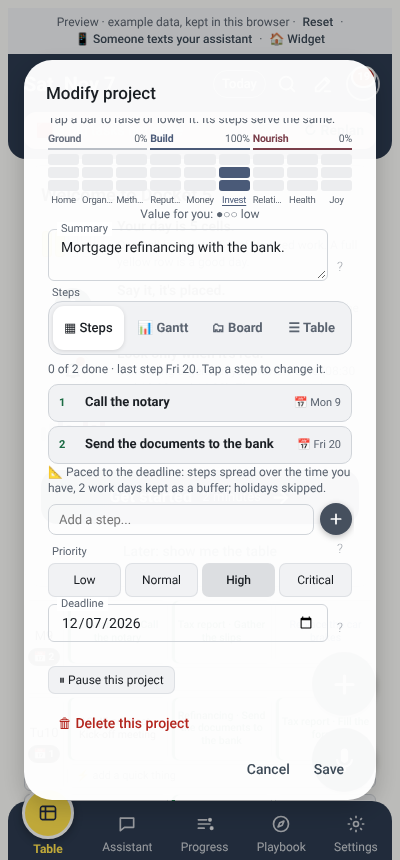
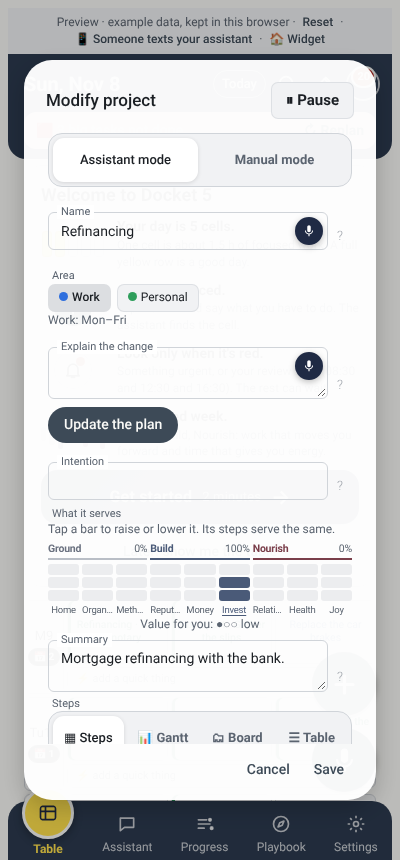
Preview: Pause at the top of the project view; pausing clears every planned cell of the project (missed ones too)
Claude-Session: https://claude.ai/code/session_016YHbQ4tSLyRHgwgfX2aic5

diff --git a/docs/preview/docket5-gbn-preview.html b/docs/preview/docket5-gbn-preview.html
@@ -282,6 +282,7 @@ button.rrow { background: none; border: 0; border-bottom: 1px solid var(--outlin
 .jl { font-size: 9.5px; color: var(--muted); white-space: nowrap; overflow: hidden; text-overflow: ellipsis; max-width: 100%; }
 .jbtn[aria-pressed=true] .jl, .jbtn[aria-pressed=true] .jn { color: inherit; font-weight: 700; }
 .jhead .jrow:nth-child(2) .jbtn { min-width: 56px; }
+.pausebtn { font-size: 15px !important; padding: 7px 14px !important; font-weight: 600; }
 .jctx { font-size: 12px; color: var(--muted); border-left: 3px solid var(--outline); padding-left: 7px; }
 .jdig { font-size: 13px; margin: 2px 0 0 0; padding-left: 18px; } .jdig li { margin: 1px 0; } .jdigp { font-size: 13px; }
 .jpanel { display: flex; flex-direction: column; gap: 5px; background: var(--variant); border-radius: 10px; padding: 7px 8px; }
@@ -3240,7 +3241,7 @@ function projectDialog(existing, from = null, opts = {}) {
     : ft ? [{ title: `Prepare: what “${ft.title}” needs`, done: false }, { title: ft.title, done: false }] : [];
   const levels = p && p.serve ? { ...p.serve } : holder ? serveOf(holder, null) : ft ? serveOf(ft, null) : {}; let proposedLv = p || ft ? { ...levels } : null;
   const fname = ft ? uniqueProjectName(S, ft.title) : "", fexplain = ft ? [ft.title + ".", ft.desc, intentionOf(ft) && "Intention: " + intentionOf(ft)].filter(Boolean).join(" ") : "";
-  dialog(`<h3>${ft ? "Make it a project" : idea ? "Start the idea" : p ? "Modify project" : opts.start ? "New project · from " + dayName(opts.start) : "New project"}</h3><div class="body">
+  dialog(`<h3><span class="grow">${ft ? "Make it a project" : idea ? "Start the idea" : p ? "Modify project" : opts.start ? "New project · from " + dayName(opts.start) : "New project"}</span>${p && !idea ? `<button type="button" class="tag pausebtn" data-a="pause">⏸ Pause</button>` : ""}</h3><div class="body">
     ${ft ? `<div class="small">“${esc(ft.title)}” becomes a project with the same intention. Check or change anything, then Save. Its first step keeps the task's cell${fday ? ` (${dayName(fday)})` : ""}.</div>` : ""}
     <div class="seg" role="group" aria-label="How"><button type="button" data-mode="assistant" aria-pressed="true">Assistant mode</button><button type="button" data-mode="manual" aria-pressed="false">Manual mode</button></div>
     ${!p && !ft && (S.templates || []).length ? `<div class="glabel">Start from a template (optional)</div><div class="wrap">${S.templates.map(t => `<button type="button" class="tag" data-a="tpl-use" data-tn="${esc(t.name)}" aria-pressed="false">📋 ${esc(t.name)} · ${t.steps.length} steps</button>`).join("")}</div>` : ""}
@@ -3263,7 +3264,6 @@ function projectDialog(existing, from = null, opts = {}) {
       ${dateField("p-deadline", "Deadline", p ? p.deadline : ft ? ft.deadline || "" : "", "The final date. Its steps are planned to finish at least one day before.")}
     </div>
     <div class="err" id="err"></div>
-    ${p && !idea ? `<button type="button" class="tag" data-a="pause" style="align-self:flex-start">⏸ Pause this project</button>` : ""}
     ${idea ? `<button class="text danger" data-a="delete-idea" style="align-self:flex-start">Delete this idea</button>` : p ? `<button class="text danger" data-a="delete-project" style="align-self:flex-start">🗑 Delete this project</button>` : ""}</div>
     <div class="foot"><button class="text" data-a="close">Cancel</button><button class="text" data-a="save">Save</button></div>`, host => {
     const showMode = () => {
@@ -3287,7 +3287,7 @@ function projectDialog(existing, from = null, opts = {}) {
         // From an empty cell: the project starts that day.
         if (opts.start) { const s0 = steps.find(x => !x.done); if (s0 && !s0.date) s0.date = opts.start; }
         const out = saveProjectWithSteps({ name, priority: prio, why, area: parea, deadline: $("#p-deadline").value || null, notes: $("#p-notes").value.trim(), values: [...serves], blocks: p ? (p.blocks || []) : [] }, p ? p.name : null, steps);
-        const h = projectTask(S, name), open = h ? h.steps.filter(x => !x.done && (!x.outcome || x.outcome === "PARKED")) : [], already = parkedCount(findProject(S, name)) > 0;
+        const open = S.tasks.filter(t => t.project === name).flatMap(t => t.steps.filter(x => !x.done && (!x.outcome || x.outcome === "PARKED" || x.outcome === "MISSED"))), already = parkedCount(findProject(S, name)) > 0;
         const limit = $("#p-deadline").value || null;
         return { days: open.map(x => ({ date: x.date, late: !x.date || (limit && x.date > limit) })), moved: out, pace: lastPace };
       } finally { S = real; }
@@ -5151,7 +5151,7 @@ Start with the most useful question (e.g. why a task keeps moving, what filled t
     });
   });
 }
-function parkedCount(p) { const h = projectTask(S, p.name); return h ? h.steps.filter(x => x.outcome === "PARKED").length : 0; }
+function parkedCount(p) { return S.tasks.filter(t => t.project === p.name).reduce((n, t) => n + t.steps.filter(x => x.outcome === "PARKED").length, 0); }
 /** Park: the project's open steps leave the table and wait with the ideas; Resume puts them back after tomorrow. */
 const PAUSE_WHY = ["⏳ Waiting on someone", "🔽 Not a priority now", "🕒 No time these weeks", "🚧 Blocked", "Other"];
 /** ⏸ Pause: why, and when it comes back. Save frees its cells at once (rules, no AI); nothing is lost. */
@@ -5166,7 +5166,7 @@ function pauseDialog(name) {
     <div class="glabel" style="margin:0">Bring it back</div>
     <div class="picks">${tag(!st.until, `data-pu=""`, "When I say")}${tag(!!st.until, `data-pu="pick"`, st.until ? "📅 " + esc(dayName(st.until)) : "📅 On a day")}</div>
     <div id="pz-day" hidden><input type="date" id="pz-date" min="${addDays(TODAY, 1)}"></div>
-    <div class="card small"><b>When you save:</b> its ${open.length} open step${open.length === 1 ? "" : "s"} leave your table${soon ? ` (${soon} cell${soon > 1 ? "s" : ""} free this week)` : ""}. Nothing is deleted: they wait, in order, with the project.${st.until ? ` On ${esc(dayName(st.until))} they come back by themselves.` : ""}</div></div>
+    <div class="card small"><b>When you save:</b> all its ${open.length} planned step${open.length === 1 ? "" : "s"} leave your table completely${soon ? ` (${soon} cell${soon > 1 ? "s" : ""} free this week)` : ""}, red ones included. Nothing is deleted: they wait, in order, with the project.${st.until ? ` On ${esc(dayName(st.until))} they come back by themselves.` : ""}</div></div>
     <div class="foot"><button class="text" data-z="x">Cancel</button><button class="btn" data-z="ok">⏸ Pause</button></div>`, host => {
     host.querySelector("#pz-note").addEventListener("input", e => { st.note = e.target.value; });
     host.querySelectorAll("[data-pw]").forEach(b => b.addEventListener("click", () => { st.why = b.dataset.pw; draw(); }));
@@ -5198,13 +5198,14 @@ function confirmResume(name) {
 /** A pause with a date ends by itself that day (rule, no AI). */
 function autoResume() { (S.projects || []).forEach(p => { if (p.pause && p.pause.until && p.pause.until <= TODAY && parkedCount(p)) { resumeProject(p.name); S.notice = { text: `▶ ${p.name} is back today, as planned when you paused it.`, warn: false }; delete p.pause; } }); }
 function parkProject(name) {
-  const h = projectTask(S, name); if (!h) return;
-  h.steps.forEach(x => { if (!x.done && !x.outcome) Object.assign(x, { outcome: "PARKED", date: null, slot: null, pinned: false }); });
+  const tasks = S.tasks.filter(t => t.project === name); if (!tasks.length) return;
+  // Every cell of the project leaves the table: planned, scheduled and missed (red) ones. Done ones stay as your record.
+  tasks.forEach(t => t.steps.forEach(x => { if (!x.done && (!x.outcome || x.outcome === "MISSED")) Object.assign(x, { outcome: "PARKED", date: null, slot: null, pinned: false }); }));
   plan(S); S.notice = { text: `${name} is parked with your ideas. Its cells are free again.`, warn: false };
 }
 function resumeProject(name) {
-  const h = projectTask(S, name); if (!h) return;
-  h.steps.forEach(x => { if (x.outcome === "PARKED") Object.assign(x, { outcome: null }); });
+  const tasks = S.tasks.filter(t => t.project === name); if (!tasks.length) return;
+  tasks.forEach(t => t.steps.forEach(x => { if (x.outcome === "PARKED") Object.assign(x, { outcome: null }); }));
   plan(S); const e = projectEnd(S, name);
   S.notice = { text: `${name} is back: it now ends ${e && e.end ? dayName(e.end) : "when cells free up"}.`, warn: false };
 }
